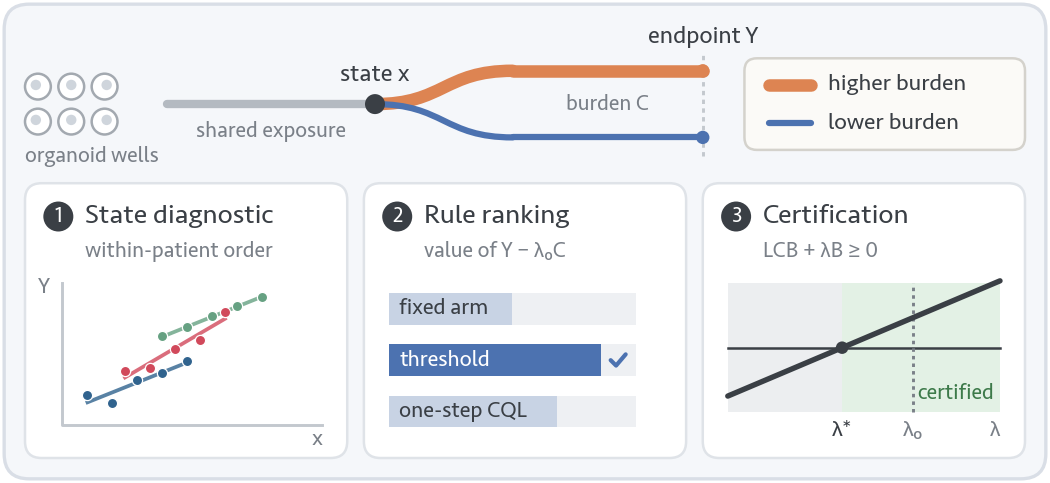
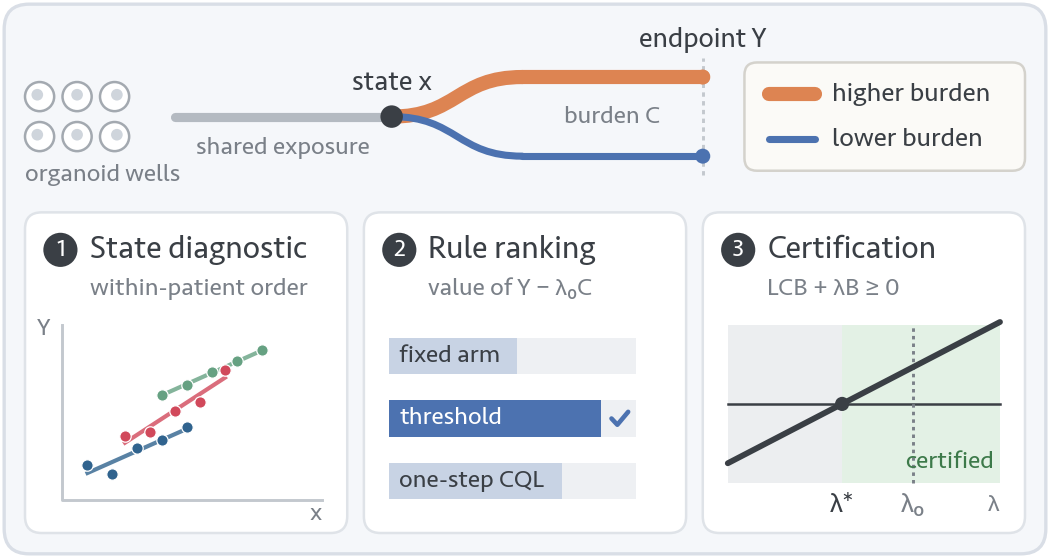
Condense the dataset-search paragraph and enlarge Fig 1

diff --git a/fig1_overview.py b/fig1_overview.py
@@ -17,14 +17,15 @@ from prep import ARM_COLORS, PATIENT_COLORS, save
 
 INK, MUTE, RULE = "#3a3f45", "#7a8088", "#c3c8ce"
 LOW, HIGH = ARM_COLORS["low"], ARM_COLORS["high"]
-W, H = 252.0, 116.0               # one IEEE column wide
+TITLE, MARK, LABEL, NOTE = 7.6, 6.7, 6.4, 6.0  # font sizes
+W, H = 252.0, 134.0               # one IEEE column wide
 M, GAP = 6.0, 4.0                 # outer margin and gap between cards
-CARD_W, CARD_H = (W - 2 * M - 2 * GAP) / 3, 66.0
+CARD_W, CARD_H = (W - 2 * M - 2 * GAP) / 3, 77.0
 CARD_X = [M + i * (CARD_W + GAP) for i in range(3)]
-YC = H - 25.0                     # centerline of the top band
+YC = H - 28.0                     # centerline of the top band
 
 
-def text(ax, x, y, s, size=5.6, color=INK, **kw):
+def text(ax, x, y, s, size=LABEL, color=INK, **kw):
     ax.text(x, y, s, fontsize=size, color=color, **{"ha": "left", "va": "center", "zorder": 6, **kw})
 
 
@@ -35,77 +36,77 @@ def rounded(ax, x0, y0, w, h, face, edge, r, lw=0.6, z=1):
 
 def top_band(ax):
     """One organoid well over time: shared exposure, state x at the checkpoint, two arms, endpoint Y."""
-    for i, wx in enumerate(M + 3.1 + 8.0 * np.arange(3)):
-        for wy in (YC + 4.2, YC - 4.2):
-            ax.add_patch(Circle((wx, wy), 3.1, facecolor="white", edgecolor="#a3a9b0", lw=0.6, zorder=2))
-            ax.add_patch(Circle((wx + 0.5 * (i - 1), wy + 0.4), 1.25, facecolor="#cfd5dc", lw=0, zorder=2))
-    text(ax, M, YC - 12.5, "organoid wells", 5.2, MUTE)
-    x0, xc, x1 = 40.0, 90.0, CARD_X[2]  # the endpoint sits over the left edge of card 3
+    for i, wx in enumerate(M + 3.5 + 9.0 * np.arange(3)):
+        for wy in (YC + 4.8, YC - 4.8):
+            ax.add_patch(Circle((wx, wy), 3.5, facecolor="white", edgecolor="#a3a9b0", lw=0.6, zorder=2))
+            ax.add_patch(Circle((wx + 0.55 * (i - 1), wy + 0.45), 1.4, facecolor="#cfd5dc", lw=0, zorder=2))
+    text(ax, M, YC - 14.0, "organoid wells", NOTE, MUTE)
+    x0, xc, x1 = 42.0, 94.0, CARD_X[2]  # the endpoint sits over the left edge of card 3
     xf = xc + 0.42 * (x1 - xc)
-    ax.plot([x0, xc], [YC, YC], color="#b4bac1", lw=2.0, solid_capstyle="round", zorder=2)
-    text(ax, (x0 + xc) / 2, YC - 6.5, "shared exposure", 5.2, MUTE, ha="center")
-    for y, color, lw in ((YC + 8.0, HIGH, 3.0), (YC - 8.0, LOW, 1.5)):
+    ax.plot([x0, xc], [YC, YC], color="#b4bac1", lw=2.2, solid_capstyle="round", zorder=2)
+    text(ax, (x0 + xc) / 2, YC - 7.5, "shared exposure", NOTE, MUTE, ha="center")
+    for y, color, lw in ((YC + 9.5, HIGH, 3.4), (YC - 9.5, LOW, 1.7)):
         mx = (xc + xf) / 2  # S-curve with horizontal tangents, then straight to the endpoint
         path = MplPath([(xc, YC), (mx, YC), (mx, y), (xf, y)], [MplPath.MOVETO] + [MplPath.CURVE4] * 3)
         ax.add_patch(PathPatch(path, facecolor="none", edgecolor=color, lw=lw, capstyle="round", zorder=3))
         ax.plot([xf, x1], [y, y], color=color, lw=lw, solid_capstyle="round", zorder=3)
-        ax.add_patch(Circle((x1, y), 1.6, facecolor=color, lw=0, zorder=4))
-    ax.add_patch(Circle((xc, YC), 2.4, facecolor=INK, lw=0, zorder=5))
-    text(ax, xc, YC + 7.0, "state x", 5.8, ha="center")
-    ax.plot([x1, x1], [YC - 12.5, YC + 12.5], color=RULE, lw=0.7, ls=(0, (1.5, 1.5)), zorder=1)
-    text(ax, x1, YC + 16.0, "endpoint Y", 5.8, ha="center")
-    text(ax, (xf + x1) / 2, YC, "burden C", 5.2, MUTE, ha="center")
+        ax.add_patch(Circle((x1, y), 1.8, facecolor=color, lw=0, zorder=4))
+    ax.add_patch(Circle((xc, YC), 2.7, facecolor=INK, lw=0, zorder=5))
+    text(ax, xc, YC + 8.0, "state x", MARK, ha="center")
+    ax.plot([x1, x1], [YC - 14.0, YC + 14.0], color=RULE, lw=0.7, ls=(0, (1.5, 1.5)), zorder=1)
+    text(ax, x1, YC + 18.5, "endpoint Y", MARK, ha="center")
+    text(ax, (xf + x1) / 2, YC, "burden C", NOTE, MUTE, ha="center")
     lx0, lx1 = x1 + 10.0, W - M  # legend card, right edge on the card grid
-    rounded(ax, lx0, YC - 11.0, lx1 - lx0, 22.0, "#fbfaf7", "#d4d2cc", r=3.0, z=2)
-    for y, color, lw, label in ((YC + 4.6, HIGH, 3.0, "higher burden"), (YC - 4.6, LOW, 1.5, "lower burden")):
-        ax.plot([lx0 + 6.0, lx0 + 16.0], [y, y], color=color, lw=lw, solid_capstyle="round", zorder=3)
-        text(ax, lx0 + 20.0, y, label)
+    rounded(ax, lx0, YC - 13.0, lx1 - lx0, 26.0, "#fbfaf7", "#d4d2cc", r=3.0, z=2)
+    for y, color, lw, label in ((YC + 5.4, HIGH, 3.4, "higher burden"), (YC - 5.4, LOW, 1.7, "lower burden")):
+        ax.plot([lx0 + 6.0, lx0 + 17.0], [y, y], color=color, lw=lw, solid_capstyle="round", zorder=3)
+        text(ax, lx0 + 21.0, y, label)
 
 
 def stage_state(ax, x0, y0, x1, y1):
     """Each patient's wells rise with x around the patient's own level."""
     ax.plot([x0 + 3, x0 + 3, x1], [y1, y0 + 3, y0 + 3], color=RULE, lw=0.7, zorder=2)
-    text(ax, x1, y0 - 0.5, "x", 5.4, MUTE, ha="right")
-    text(ax, x0 - 1.5, y1 - 1.0, "Y", 5.4, MUTE, ha="center")
+    text(ax, x1, y0 - 0.5, "x", NOTE, MUTE, ha="right")
+    text(ax, x0 - 1.5, y1 - 1.0, "Y", NOTE, MUTE, ha="center")
     rng = np.random.default_rng(3)
-    for k, (color, level) in enumerate(zip(PATIENT_COLORS.values(), (0.0, 8.0, 16.0))):
+    for k, (color, level) in enumerate(zip(PATIENT_COLORS.values(), (0.0, 9.5, 19.0))):
         xs = x0 + 9 + 9 * k + np.linspace(0, 24, 5)
-        ys = y0 + 8 + level + 0.45 * (xs - xs[0]) + rng.normal(0, 1.0, 5)
-        ax.plot(xs[[0, -1]], np.polyval(np.polyfit(xs, ys, 1), xs[[0, -1]]), color=color, lw=0.9, alpha=0.8, zorder=3)
-        ax.scatter(xs, ys, s=6, color=color, edgecolors="white", linewidths=0.3, zorder=4)
+        ys = y0 + 9 + level + 0.5 * (xs - xs[0]) + rng.normal(0, 1.1, 5)
+        ax.plot(xs[[0, -1]], np.polyval(np.polyfit(xs, ys, 1), xs[[0, -1]]), color=color, lw=1.0, alpha=0.8, zorder=3)
+        ax.scatter(xs, ys, s=7.5, color=color, edgecolors="white", linewidths=0.3, zorder=4)
 
 
 def stage_rank(ax, x0, y0, x1, y1):
     """The three prespecified lower-burden classes by value; the leader is retained."""
-    rows = (("fixed arm", 0.50, False), ("threshold", 0.86, True), ("one-step CQL", 0.68, False))
+    rows = (("fixed arm", 0.52, False), ("threshold", 0.86, True), ("one-step CQL", 0.70, False))
     track, step = x1 - x0 - 6.0, (y1 - y0) / 3
     for i, (name, v, win) in enumerate(rows):
         y = y1 - step * (i + 0.5)
-        ax.add_patch(Rectangle((x0, y - 3.8), track, 7.6, facecolor="#eef0f3", lw=0, zorder=2))
-        ax.add_patch(Rectangle((x0, y - 3.8), track * v, 7.6, facecolor=LOW if win else "#c8d3e4", lw=0, zorder=3))
-        text(ax, x0 + 2.5, y, name, 5.3, "white" if win else INK)
+        ax.add_patch(Rectangle((x0, y - 4.4), track, 8.8, facecolor="#eef0f3", lw=0, zorder=2))
+        ax.add_patch(Rectangle((x0, y - 4.4), track * v, 8.8, facecolor=LOW if win else "#c8d3e4", lw=0, zorder=3))
+        text(ax, x0 + 2.5, y, name, NOTE, "white" if win else INK)
         if win:  # check mark after the retained rule
-            cx = x0 + track * v + 4.0
-            ax.plot([cx - 1.8, cx - 0.5, cx + 1.8], [y, y - 1.3, y + 1.4], color=LOW, lw=1.0,
+            cx = x0 + track * v + 4.4
+            ax.plot([cx - 2.0, cx - 0.6, cx + 2.0], [y, y - 1.5, y + 1.6], color=LOW, lw=1.1,
                     solid_capstyle="round", solid_joinstyle="round", zorder=6)
 
 
 def stage_certify(ax, x0, y0, x1, y1):
     """The margin M(lambda) = LCB + lambda B rises with lambda and certifies from lambda*."""
-    ya = y0 + 6.0  # the lambda axis labels sit below the plot
+    ya = y0 + 7.0  # the lambda axis labels sit below the plot
     x_star, x_ref, y_zero = x0 + 0.42 * (x1 - x0), x0 + 0.68 * (x1 - x0), (ya + y1) / 2
     ax.add_patch(Rectangle((x0, ya), x_star - x0, y1 - ya, facecolor="#eceef0", lw=0, zorder=1))
     ax.add_patch(Rectangle((x_star, ya), x1 - x_star, y1 - ya, facecolor="#e3f1e5", lw=0, zorder=1))
     ax.plot([x0, x1], [y_zero, y_zero], color=INK, lw=0.6, zorder=2)
     slope = 0.75 * (y_zero - ya) / (x_star - x0)  # the margin line crosses zero at x_star
-    ax.plot([x0, x1], [y_zero - slope * (x_star - x0), y_zero + slope * (x1 - x_star)], color=INK, lw=1.3,
+    ax.plot([x0, x1], [y_zero - slope * (x_star - x0), y_zero + slope * (x1 - x_star)], color=INK, lw=1.4,
             solid_capstyle="round", zorder=3)
     ax.plot([x_ref, x_ref], [ya, y1], color=MUTE, lw=0.7, ls=(0, (1.2, 1.4)), zorder=2)
-    ax.add_patch(Circle((x_star, y_zero), 1.5, facecolor=INK, lw=0, zorder=4))
-    text(ax, x_star, y0 + 1.5, "λ*", 5.6, ha="center")
-    text(ax, x_ref, y0 + 1.5, "λ₀", 5.6, MUTE, ha="center")
-    text(ax, x1, y0 + 1.5, "λ", 5.4, MUTE, ha="right")
-    text(ax, x1 - 1.5, ya + 4.5, "certified", 5.2, "#3d7a4a", ha="right")
+    ax.add_patch(Circle((x_star, y_zero), 1.7, facecolor=INK, lw=0, zorder=4))
+    text(ax, x_star, y0 + 1.8, "λ*", MARK, ha="center")
+    text(ax, x_ref, y0 + 1.8, "λ₀", MARK, MUTE, ha="center")
+    text(ax, x1, y0 + 1.8, "λ", NOTE, MUTE, ha="right")
+    text(ax, x1 - 1.5, ya + 5.0, "certified", NOTE, "#3d7a4a", ha="right")
 
 
 def main() -> None:
@@ -128,11 +129,11 @@ def main() -> None:
         for n, (x0, (title, sub, draw)) in enumerate(zip(CARD_X, stages), start=1):
             top = M + CARD_H
             rounded(ax, x0, M, CARD_W, CARD_H, "white", "#dfe3e8", r=4.0)
-            ax.add_patch(Circle((x0 + 8.0, top - 8.0), 3.6, facecolor=INK, lw=0, zorder=4))
-            text(ax, x0 + 8.0, top - 8.1, str(n), 5.2, "white", ha="center")
-            text(ax, x0 + 14.5, top - 8.0, title, 6.6)
-            text(ax, x0 + 14.5, top - 16.5, sub, 5.2, MUTE)
-            draw(ax, x0 + 6.0, M + 5.0, x0 + CARD_W - 6.0, top - 24.0)
+            ax.add_patch(Circle((x0 + 8.5, top - 9.0), 4.1, facecolor=INK, lw=0, zorder=4))
+            text(ax, x0 + 8.5, top - 9.1, str(n), NOTE, "white", ha="center")
+            text(ax, x0 + 15.5, top - 9.0, title, TITLE)
+            text(ax, x0 + 15.5, top - 18.5, sub, NOTE, MUTE)
+            draw(ax, x0 + 6.0, M + 5.0, x0 + CARD_W - 6.0, top - 27.0)
         save(fig, "fig1_overview")
 
 

diff --git a/paper/overleaf_ready/main.tex b/paper/overleaf_ready/main.tex
@@ -119,7 +119,7 @@ The Spiller slice comes from four colorectal organoid lines, each from a distinc
 
 The Wells slice comes from organoids of five luminal breast cancers, each from a distinct patient and cultured without passaging \cite{wells2026}. We use the per-organoid tables released with the authors' code\footnote{\url{https://github.com/JanesLab/WellsCJ_OrganoSeg2}, archive \texttt{Figure 6/excelFilesZip.zip}.}. Each patient's organoids receive 0, 5, or 30~Gy in five daily fractions, one well per dose, and a caspase-3/7 reporter loaded on the first irradiation day is imaged before the first fraction and then through day~14. The 30~Gy course mirrors accelerated partial breast irradiation, and the 5~Gy arm is its de-escalation. Each tracked organoid is one episode. Its state is the reporter reading before the first fraction, its endpoint is the reading at day~14, both as log-ratios to the same patient's 0~Gy organoids as in Schuster, and burden is the total dose. Keeping organoids read at both times gives 708 episodes. Each arm occupies one well per patient, so well effects within a patient are confounded with the arm. We added this slice during revision and analyze it with the protocol unchanged.
 
-We searched public resources for datasets with this structure on 17 and 18 October 2026. A dataset qualified when it held tumor organoids from at least three patients, two burden levels of one treatment within each patient, a per-well state read before the arms diverge together with an endpoint on the same wells, and well-level data released without request. The search covered titles and abstracts in Europe PMC, which indexes PubMed and the major preprint servers, full texts that name a data repository, every article citing Schuster or Spiller, and Zenodo, Figshare, Dryad, the BioImage Archive, BioStudies, the Image Data Resource, and GitHub. Screening 3597 unique records by title, abstract, and description left 242 records from 193 studies for assessment against the full text and the released files. Four studies met all four conditions, namely Schuster, Spiller, Wells, and a 2026 preprint from the Spiller group that tracks colorectal organoids from six patients through eight doses of SN-38 and 5-FU \cite{kim2026}. Four more ran the required design with released files whose per-well content we could not confirm, and eighteen ran it with data available only on request. Public per-well data, more than experimental design, therefore limit this benchmark. Wells enters the benchmark as a third burden axis, and the preprint, which repeats the Spiller design with a dose series, is the next replication cohort. The query strings and the screening log are released with our code.
+A search of the literature and public data repositories screened 3597 records for this structure and assessed 242 of them against the full text and the released files. A study qualified when it showed the structure in tumor organoids from at least three patients and released well-level data without request. Four studies qualified, namely the three slices above and a 2026 preprint that repeats the Spiller design with a dose series \cite{kim2026}, which is the next replication cohort. The queries and the screening log are released with our code.
 
 \section{Staged Evaluation Protocol}
 

diff --git a/README.md b/README.md
@@ -34,16 +34,7 @@ Each slice observes both arms after a shared checkpoint, a state read before the
 </p>
 <p align="center"><em>Left, Schuster: within each patient, wells with higher checkpoint death tend to reach higher final death. Right, Spiller: the dose arms overlap before dosing and separate toward day 7.</em></p>
 
-The benchmark comes from a documented search of public resources on 17 and 18 October 2026.
-
-| Step | Count |
-| --- | ---: |
-| Unique records from Europe PMC (titles and abstracts, full texts naming a repository, citations of Schuster and Spiller), Zenodo, Figshare, Dryad, the BioImage Archive, BioStudies, the Image Data Resource, and GitHub | 3597 |
-| Excluded on title, abstract, or repository description | 3355 |
-| Records assessed against the full text and the released files, from 193 studies | 242 |
-| Studies that ran the design with data available on request only | 18 |
-| Studies that ran the design with released files of unconfirmed per-well content | 4 |
-| Studies meeting all four conditions: Schuster, Spiller, Wells, and the 2026 SCOPE preprint | 4 |
+A search of the literature and public data repositories screened 3597 records for this structure and assessed 242 of them against the full text and the released files. Four studies qualified, namely the three slices above and a 2026 preprint (SCOPE) that repeats the Spiller design with a dose series, which is the next replication cohort.
 
 ## Results
 
